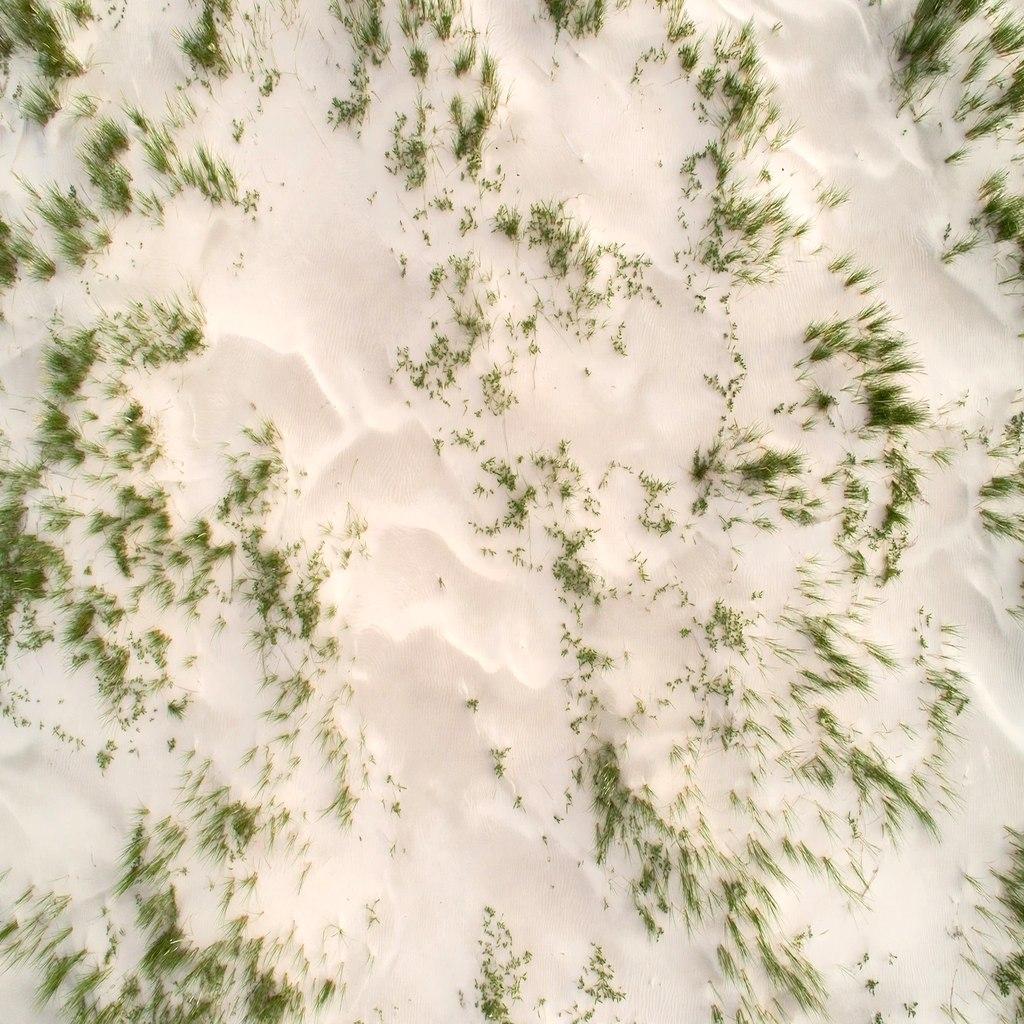
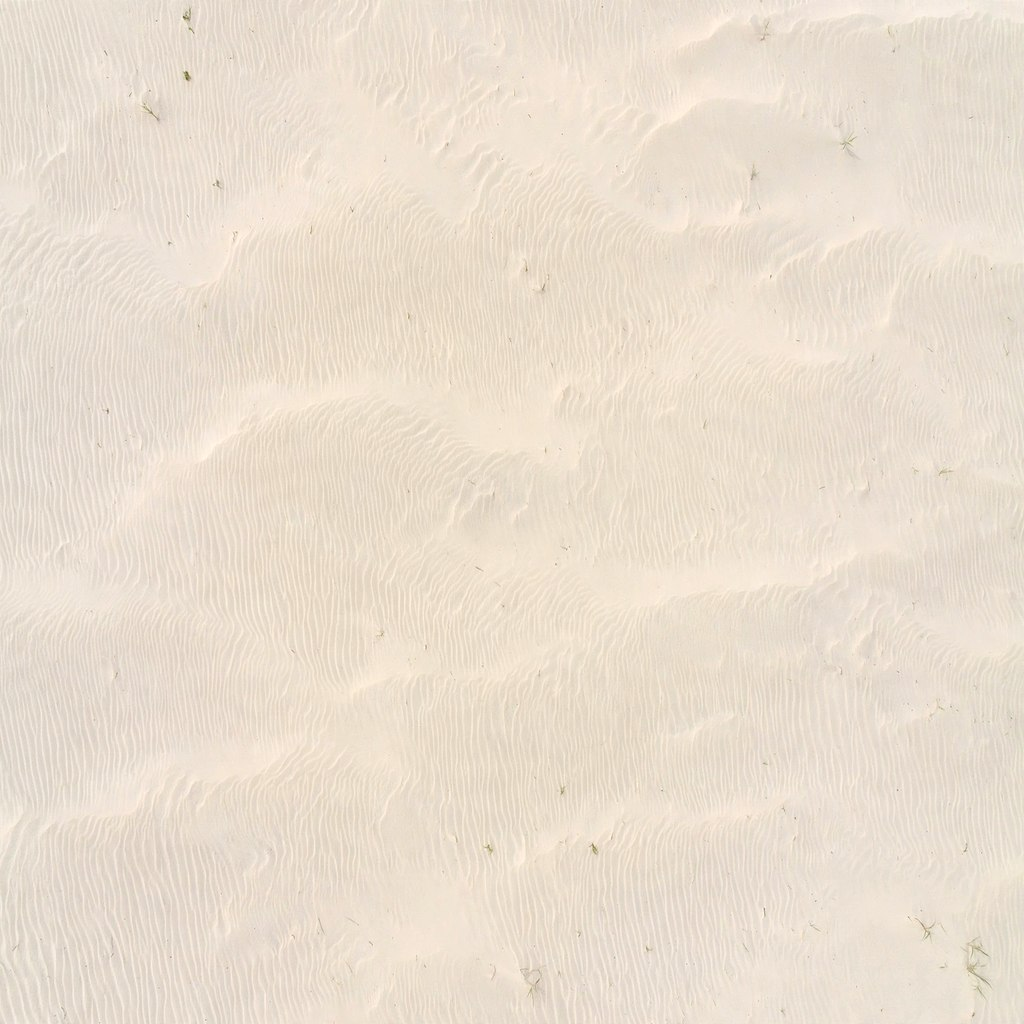
Coast becomes a beach: sand palette + clean sand texture, photo palm billboards, sparklier water, chip renamed 해변 (SW v15)

diff --git a/index.html b/index.html
@@ -90,7 +90,7 @@ const SEG3 = 820, BLEND3 = 230;
 const PALS = [
   { name:"아침 초원", sub:"MEADOW", sky:0xa9cfee, gA:0x79b657, gB:0x639e47, far:0x8fb98a, sun:0xfff2d8, sunI:1.2, hemiI:0.75, night:0, coast:0, alpine:0, snow:0 },
   { name:"깊은 숲",   sub:"FOREST", sky:0x9ec9b4, gA:0x4f8a45, gB:0x3d7038, far:0x5d8a66, sun:0xf2ffd8, sunI:1.05, hemiI:0.65, night:0, coast:0, alpine:0, snow:0, mount:0 },
-  { name:"바닷가",    sub:"COAST",  sky:0xa5dcf2, gA:0x79b657, gB:0x679e4c, far:0x7fb2c9, sun:0xfff6d8, sunI:1.25, hemiI:0.8, night:0, coast:1, alpine:0, snow:0 },
+  { name:"해변",    sub:"COAST",  sky:0xa5dcf2, gA:0xdcc79e, gB:0xcdb488, far:0x7fb2c9, sun:0xfff6d8, sunI:1.25, hemiI:0.8, night:0, coast:1, alpine:0, snow:0 },
   { name:"노을 사막", sub:"DESERT", sky:0xf2c48d, gA:0xddba68, gB:0xcaa050, far:0xc98d5a, sun:0xffd9a0, sunI:1.3, hemiI:0.7, night:0.15, coast:0, alpine:0, snow:0, mount:0, desert:1 },
   { name:"노을 호수", sub:"SUNSET", sky:0xfb9a4e, gA:0x9aa04e, gB:0x7f9448, far:0xc97a4a, sun:0xffb066, sunI:1.25, hemiI:0.55, night:0.25, coast:0, alpine:0, snow:0 },
   { name:"눈 내리는 마을", sub:"SNOW", sky:0xcfdde8, gA:0xf0f5f9, gB:0xdfe9f1, far:0xb9cbd8, sun:0xeef4ff, sunI:1.0, hemiI:0.8, night:0, coast:0, alpine:0, snow:0.8 },
@@ -252,6 +252,12 @@ new THREE.TextureLoader().load('assets/prop_pine.png', t=>{
   t.encoding = THREE.sRGBEncoding; t.anisotropy = 8;
   bbMat = new THREE.MeshStandardMaterial({ map: t, alphaTest: 0.45, side: THREE.DoubleSide, roughness: 1 });
   bbTex = t;
+}, undefined, ()=>{});
+let palmTex = null, palmMat = null;
+new THREE.TextureLoader().load('assets/prop_palm.png', t=>{
+  t.encoding = THREE.sRGBEncoding; t.anisotropy = 8;
+  palmMat = new THREE.MeshStandardMaterial({ map: t, alphaTest: 0.45, side: THREE.DoubleSide, roughness: 1 });
+  palmTex = t;
 }, undefined, ()=>{});
 const _skyTop = new THREE.Color(), _skyBot = new THREE.Color(), _white = new THREE.Color(0xffffff), _black = new THREE.Color(0x000000);
 const camera = new THREE.PerspectiveCamera(55, window.innerWidth/window.innerHeight, 0.1, 2400);
@@ -757,6 +763,7 @@ function buildChunk(ci){
   else if(bName==='ALPINE'){ plan.pineSnow=26; plan.rock=24; }
   else if(bName==='NIGHT'){ plan.pine=36; plan.round=6; }
   if(bbTex && (bName==='MEADOW' || bName==='FOREST')){ plan.pine = 0; plan.round = 0; }
+  if(palmTex && bName==='COAST'){ plan.palm = 0; }
   for(const type of Object.keys(plan)){
     const cnt = plan[type];
     if(!cnt) continue;
@@ -810,6 +817,27 @@ function buildChunk(ci){
     bb.count = placed; bb.frustumCulled = false;
     group.add(bb);
     const lst0 = BB_SET.get(ci) || []; lst0.push({ im: bb, items }); BB_SET.set(ci, lst0);
+  }
+
+  // 사진 야자수 빌보드 (해변): 육지 쪽 + 물가의 모래톱
+  if(palmTex && bName==='COAST'){
+    const nBB = 20;
+    const pb = new THREE.InstancedMesh(bbGeom, palmMat, nBB);
+    const items = [];
+    let placed = 0, guard = 0;
+    while(placed < nBB && guard++ < nBB*30){
+      const x = ci*CHUNK + rnd()*CHUNK;
+      if(bz && x > bz[0]-4 && x < bz[1]+4) continue;
+      const sea = rnd() < 0.35;
+      const side = sea ? 1 : -1;
+      const dist = sea ? 15 + rnd()*15 : 14 + Math.pow(rnd(), 1.3)*80;
+      const z = latAt(x) + side*dist;
+      items.push({ x, y: groundH(x, z) - 0.1, z, h: 6.5 + rnd()*3.5, flip: rnd() < 0.5 });
+      placed++;
+    }
+    pb.count = placed; pb.frustumCulled = false;
+    group.add(pb);
+    const lst2 = BB_SET.get(ci) || []; lst2.push({ im: pb, items }); BB_SET.set(ci, lst2);
   }
 
   // 집 (눈 마을·밤에는 마을처럼 모여서)
@@ -2042,6 +2070,7 @@ function updateCamera(dt, t){
 
 /* HDRI 환경광이 너무 세지 않게 */
 [terrainMat, ballastMat, foliageMat, mesaMat, ridgeMat, waterMat, deckMat, iceMat, modelMat, ...fieldMats].forEach(m=>{ m.envMapIntensity = 0.5; });
+waterMat.envMapIntensity = 0.95;
 
 /* ================= main loop ================= */
 const winDay = new THREE.Color(0x2b3e4f), winNight = new THREE.Color(0xffca7a), _wc = new THREE.Color();

diff --git a/train3d.html b/train3d.html
@@ -90,7 +90,7 @@ const SEG3 = 820, BLEND3 = 230;
 const PALS = [
   { name:"아침 초원", sub:"MEADOW", sky:0xa9cfee, gA:0x79b657, gB:0x639e47, far:0x8fb98a, sun:0xfff2d8, sunI:1.2, hemiI:0.75, night:0, coast:0, alpine:0, snow:0 },
   { name:"깊은 숲",   sub:"FOREST", sky:0x9ec9b4, gA:0x4f8a45, gB:0x3d7038, far:0x5d8a66, sun:0xf2ffd8, sunI:1.05, hemiI:0.65, night:0, coast:0, alpine:0, snow:0, mount:0 },
-  { name:"바닷가",    sub:"COAST",  sky:0xa5dcf2, gA:0x79b657, gB:0x679e4c, far:0x7fb2c9, sun:0xfff6d8, sunI:1.25, hemiI:0.8, night:0, coast:1, alpine:0, snow:0 },
+  { name:"해변",    sub:"COAST",  sky:0xa5dcf2, gA:0xdcc79e, gB:0xcdb488, far:0x7fb2c9, sun:0xfff6d8, sunI:1.25, hemiI:0.8, night:0, coast:1, alpine:0, snow:0 },
   { name:"노을 사막", sub:"DESERT", sky:0xf2c48d, gA:0xddba68, gB:0xcaa050, far:0xc98d5a, sun:0xffd9a0, sunI:1.3, hemiI:0.7, night:0.15, coast:0, alpine:0, snow:0, mount:0, desert:1 },
   { name:"노을 호수", sub:"SUNSET", sky:0xfb9a4e, gA:0x9aa04e, gB:0x7f9448, far:0xc97a4a, sun:0xffb066, sunI:1.25, hemiI:0.55, night:0.25, coast:0, alpine:0, snow:0 },
   { name:"눈 내리는 마을", sub:"SNOW", sky:0xcfdde8, gA:0xf0f5f9, gB:0xdfe9f1, far:0xb9cbd8, sun:0xeef4ff, sunI:1.0, hemiI:0.8, night:0, coast:0, alpine:0, snow:0.8 },
@@ -252,6 +252,12 @@ new THREE.TextureLoader().load('assets/prop_pine.png', t=>{
   t.encoding = THREE.sRGBEncoding; t.anisotropy = 8;
   bbMat = new THREE.MeshStandardMaterial({ map: t, alphaTest: 0.45, side: THREE.DoubleSide, roughness: 1 });
   bbTex = t;
+}, undefined, ()=>{});
+let palmTex = null, palmMat = null;
+new THREE.TextureLoader().load('assets/prop_palm.png', t=>{
+  t.encoding = THREE.sRGBEncoding; t.anisotropy = 8;
+  palmMat = new THREE.MeshStandardMaterial({ map: t, alphaTest: 0.45, side: THREE.DoubleSide, roughness: 1 });
+  palmTex = t;
 }, undefined, ()=>{});
 const _skyTop = new THREE.Color(), _skyBot = new THREE.Color(), _white = new THREE.Color(0xffffff), _black = new THREE.Color(0x000000);
 const camera = new THREE.PerspectiveCamera(55, window.innerWidth/window.innerHeight, 0.1, 2400);
@@ -757,6 +763,7 @@ function buildChunk(ci){
   else if(bName==='ALPINE'){ plan.pineSnow=26; plan.rock=24; }
   else if(bName==='NIGHT'){ plan.pine=36; plan.round=6; }
   if(bbTex && (bName==='MEADOW' || bName==='FOREST')){ plan.pine = 0; plan.round = 0; }
+  if(palmTex && bName==='COAST'){ plan.palm = 0; }
   for(const type of Object.keys(plan)){
     const cnt = plan[type];
     if(!cnt) continue;
@@ -810,6 +817,27 @@ function buildChunk(ci){
     bb.count = placed; bb.frustumCulled = false;
     group.add(bb);
     const lst0 = BB_SET.get(ci) || []; lst0.push({ im: bb, items }); BB_SET.set(ci, lst0);
+  }
+
+  // 사진 야자수 빌보드 (해변): 육지 쪽 + 물가의 모래톱
+  if(palmTex && bName==='COAST'){
+    const nBB = 20;
+    const pb = new THREE.InstancedMesh(bbGeom, palmMat, nBB);
+    const items = [];
+    let placed = 0, guard = 0;
+    while(placed < nBB && guard++ < nBB*30){
+      const x = ci*CHUNK + rnd()*CHUNK;
+      if(bz && x > bz[0]-4 && x < bz[1]+4) continue;
+      const sea = rnd() < 0.35;
+      const side = sea ? 1 : -1;
+      const dist = sea ? 15 + rnd()*15 : 14 + Math.pow(rnd(), 1.3)*80;
+      const z = latAt(x) + side*dist;
+      items.push({ x, y: groundH(x, z) - 0.1, z, h: 6.5 + rnd()*3.5, flip: rnd() < 0.5 });
+      placed++;
+    }
+    pb.count = placed; pb.frustumCulled = false;
+    group.add(pb);
+    const lst2 = BB_SET.get(ci) || []; lst2.push({ im: pb, items }); BB_SET.set(ci, lst2);
   }
 
   // 집 (눈 마을·밤에는 마을처럼 모여서)
@@ -2042,6 +2070,7 @@ function updateCamera(dt, t){
 
 /* HDRI 환경광이 너무 세지 않게 */
 [terrainMat, ballastMat, foliageMat, mesaMat, ridgeMat, waterMat, deckMat, iceMat, modelMat, ...fieldMats].forEach(m=>{ m.envMapIntensity = 0.5; });
+waterMat.envMapIntensity = 0.95;
 
 /* ================= main loop ================= */
 const winDay = new THREE.Color(0x2b3e4f), winNight = new THREE.Color(0xffca7a), _wc = new THREE.Color();

diff --git a/sw.js b/sw.js
@@ -1,10 +1,10 @@
-const CACHE = 'healing-train-v14';
+const CACHE = 'healing-train-v15';
 const CORE = [
   './', './index.html', './train3d.html', './iso.html', './side-view.html',
   './assets/three.min.js', './assets/RGBELoader.js', './assets/GLTFLoader.js', './assets/sky_day.hdr', './assets/sky_sunset.hdr',
   './assets/models/pine-tree.glb', './assets/models/tree-leafy.glb', './assets/models/rock.glb', './assets/models/bush.glb', './assets/models/house.glb', './assets/models/house-2.glb',
   './assets/realroute/meta.json', './assets/realroute/samples.bin', './assets/realroute/grid.bin',
-  './assets/pano_rockies.jpg', './assets/ground_meadow.jpg', './assets/ground_forest.jpg', './assets/prop_pine.png', './assets/prop_house.png', './assets/ground_field.jpg', './assets/pano_desert.jpg', './assets/pano_coast.jpg', './assets/ground_desert.jpg', './assets/ground_coast.jpg',
+  './assets/pano_rockies.jpg', './assets/ground_meadow.jpg', './assets/ground_forest.jpg', './assets/prop_pine.png', './assets/prop_house.png', './assets/ground_field.jpg', './assets/pano_desert.jpg', './assets/pano_coast.jpg', './assets/ground_desert.jpg', './assets/ground_coast.jpg', './assets/prop_palm.png',
   './manifest.json',
   './icons/icon-192.png', './icons/icon-512.png', './icons/icon-maskable-512.png'
 ];

diff --git a/assets-src/props/SOURCE.md b/assets-src/props/SOURCE.md
@@ -2,3 +2,5 @@
 - prop_pine.png: AI-generated pine tree photo (white background), background keyed out with a luminance/saturation alpha ramp + white-fringe removal, cropped and resized to 512 wide. Generated 2026-10-21 for this app.
 - In-app: cylindrical billboards (InstancedMesh planes, alphaTest) replacing 3D pine/round trees in MEADOW/FOREST chunks.
 - prop_house.png: AI-generated log cabin photo (white background), same keying pipeline, 640 wide. Billboard houses in MEADOW.
+- prop_palm.png: AI-generated coconut palm photo (white bg), keyed with the same whiteness/saturation pipeline as the pine (2026-10-21). Deployed 512x1065. Used as billboards in the COAST (해변) biome; replaces 3D palms there.
+- ground_coast.jpg v2: regenerated cleaner — mostly clean pale sand, sparse specks only (v1's grass tufts + green vertex colors read as swamp; COAST palette ground colors also changed green -> pale sand in SW v15).
